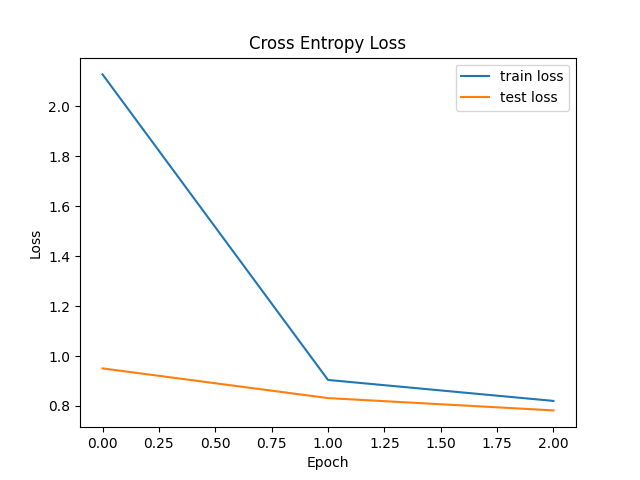
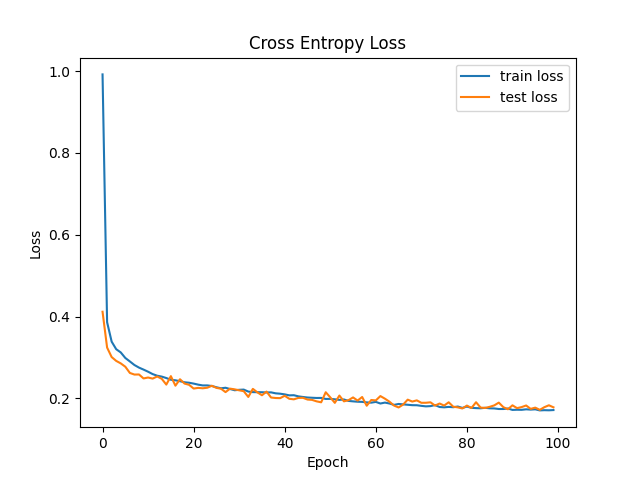
Succesfully ran mnist

diff --git a/finetune.py b/finetune.py
@@ -109,7 +109,7 @@ def finetune():
         test_loss_list.append(test_loss)
         
         logging.info(f'Epoch: {epoch + 1:3d} | train loss: {train_loss:.6f} | test loss: {test_loss:.6f}')
-        if (epoch+1) % args.save_every == 0:
+        if (epoch+1) % args.save_every == 0 or (epoch+1) == args.epoch:
             torch.save(model.state_dict(), f'./ckpt/finetune/{epoch+1}epoch.pth')
             
     loss_figure(